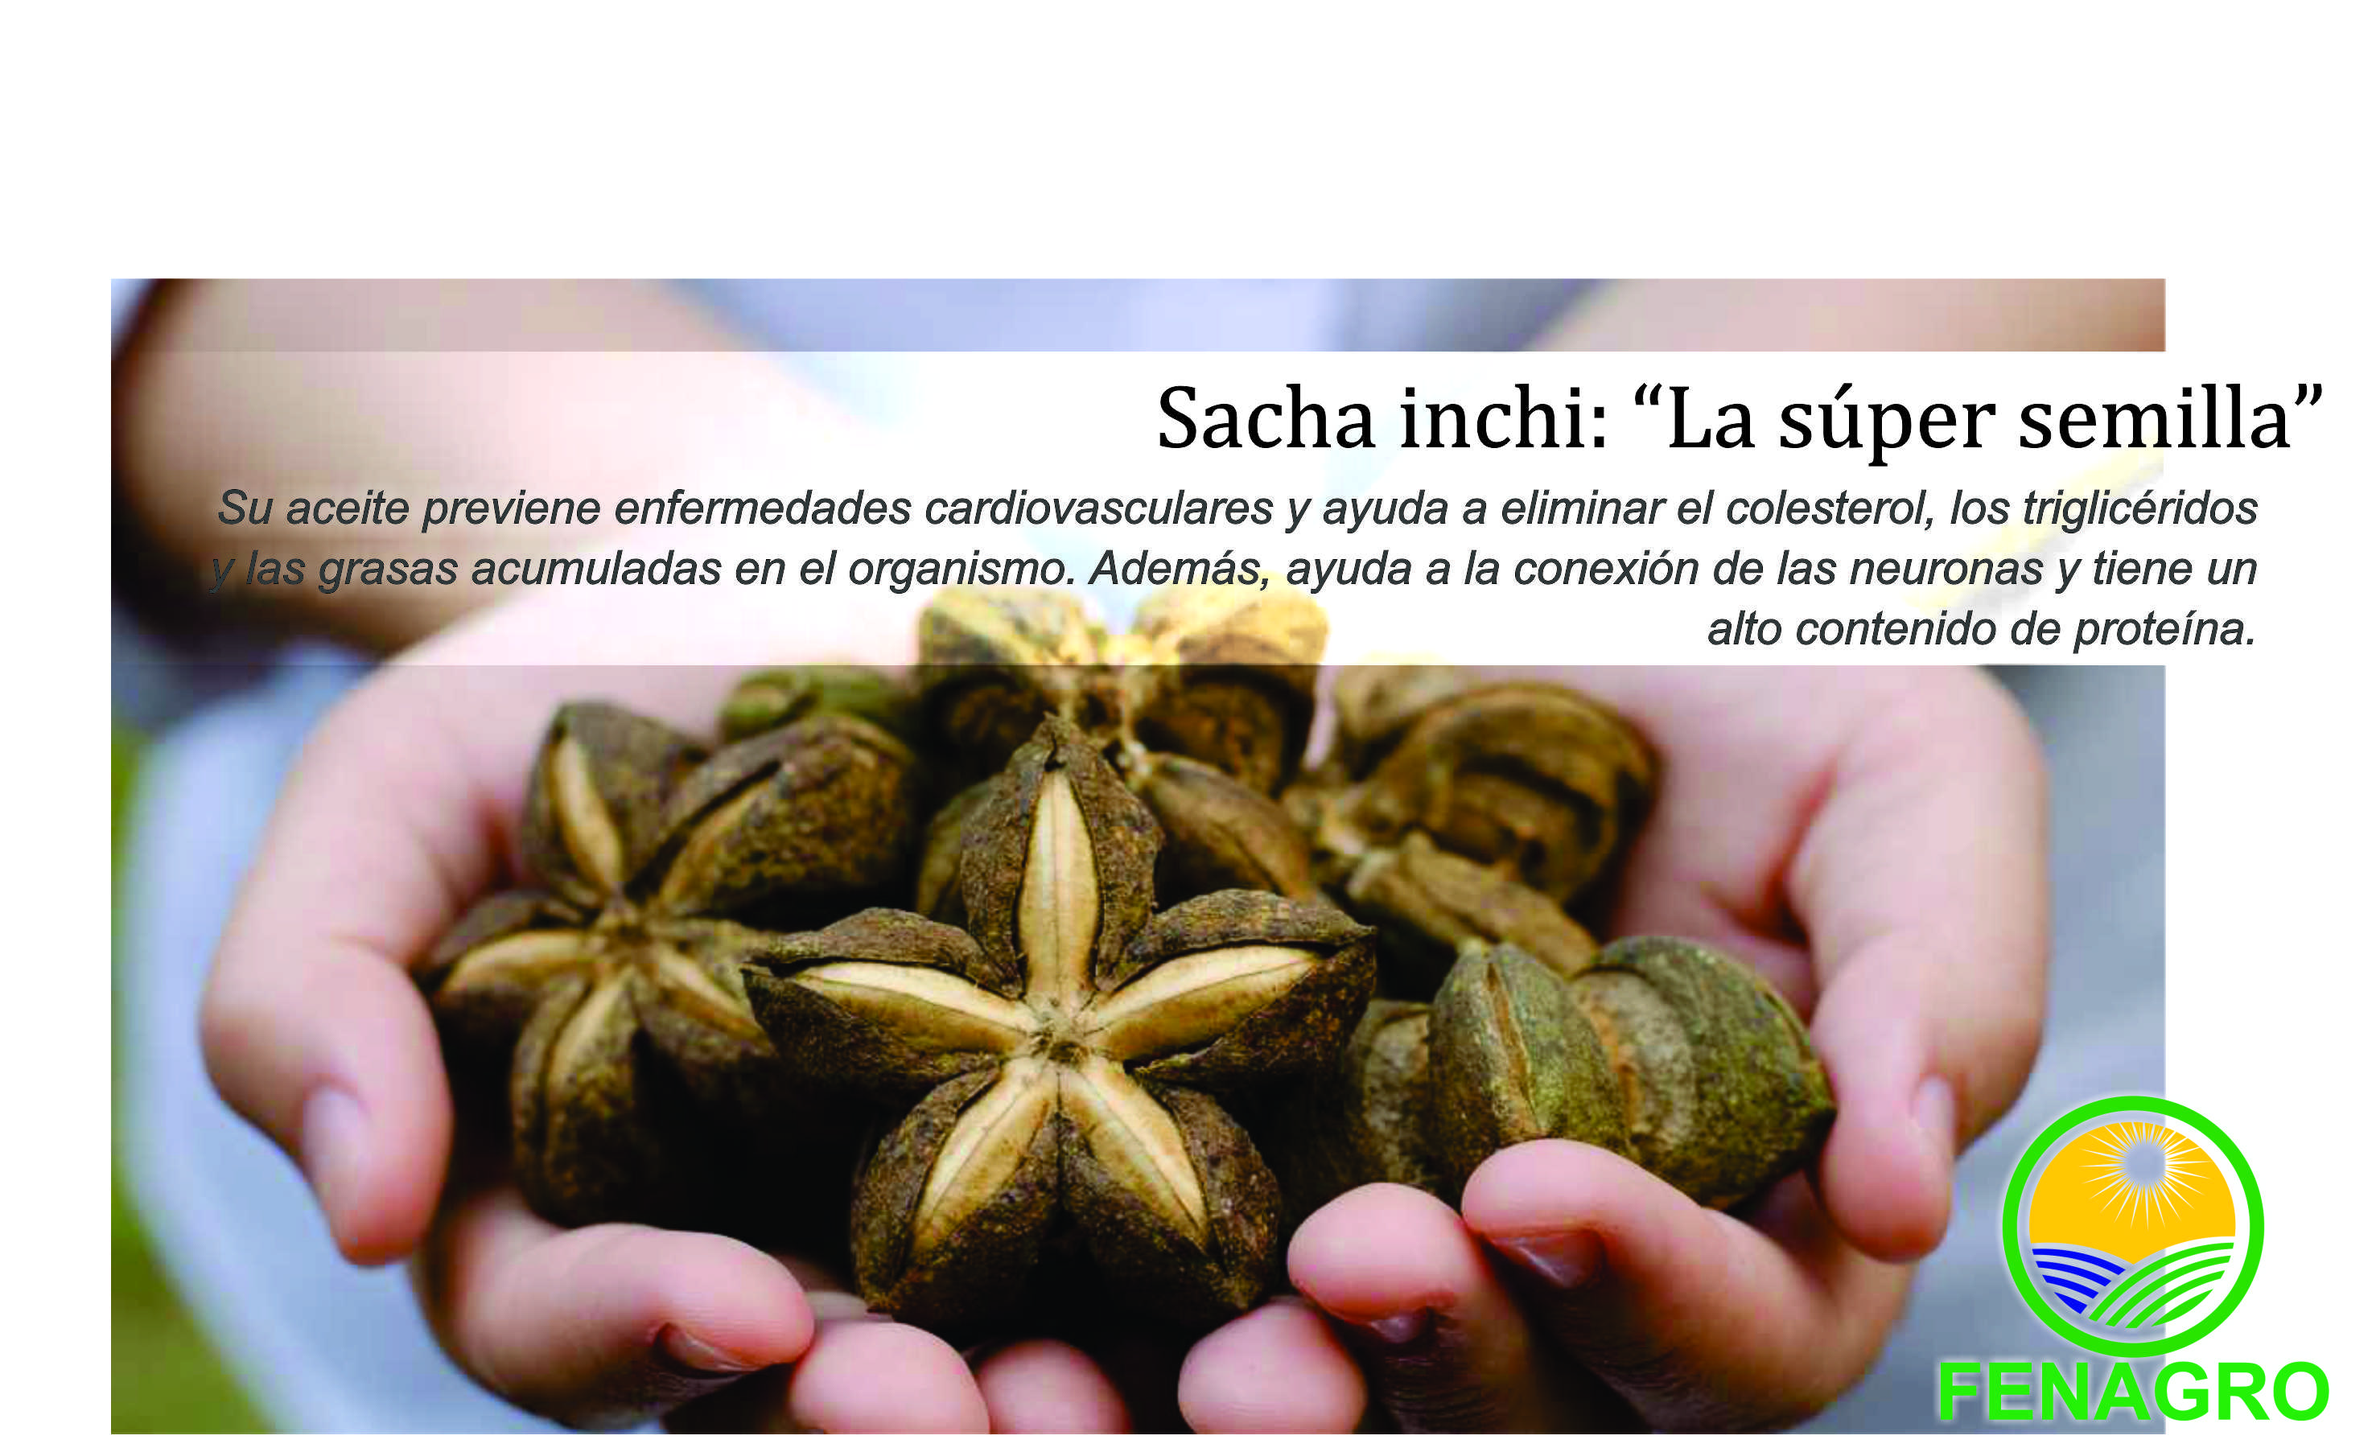
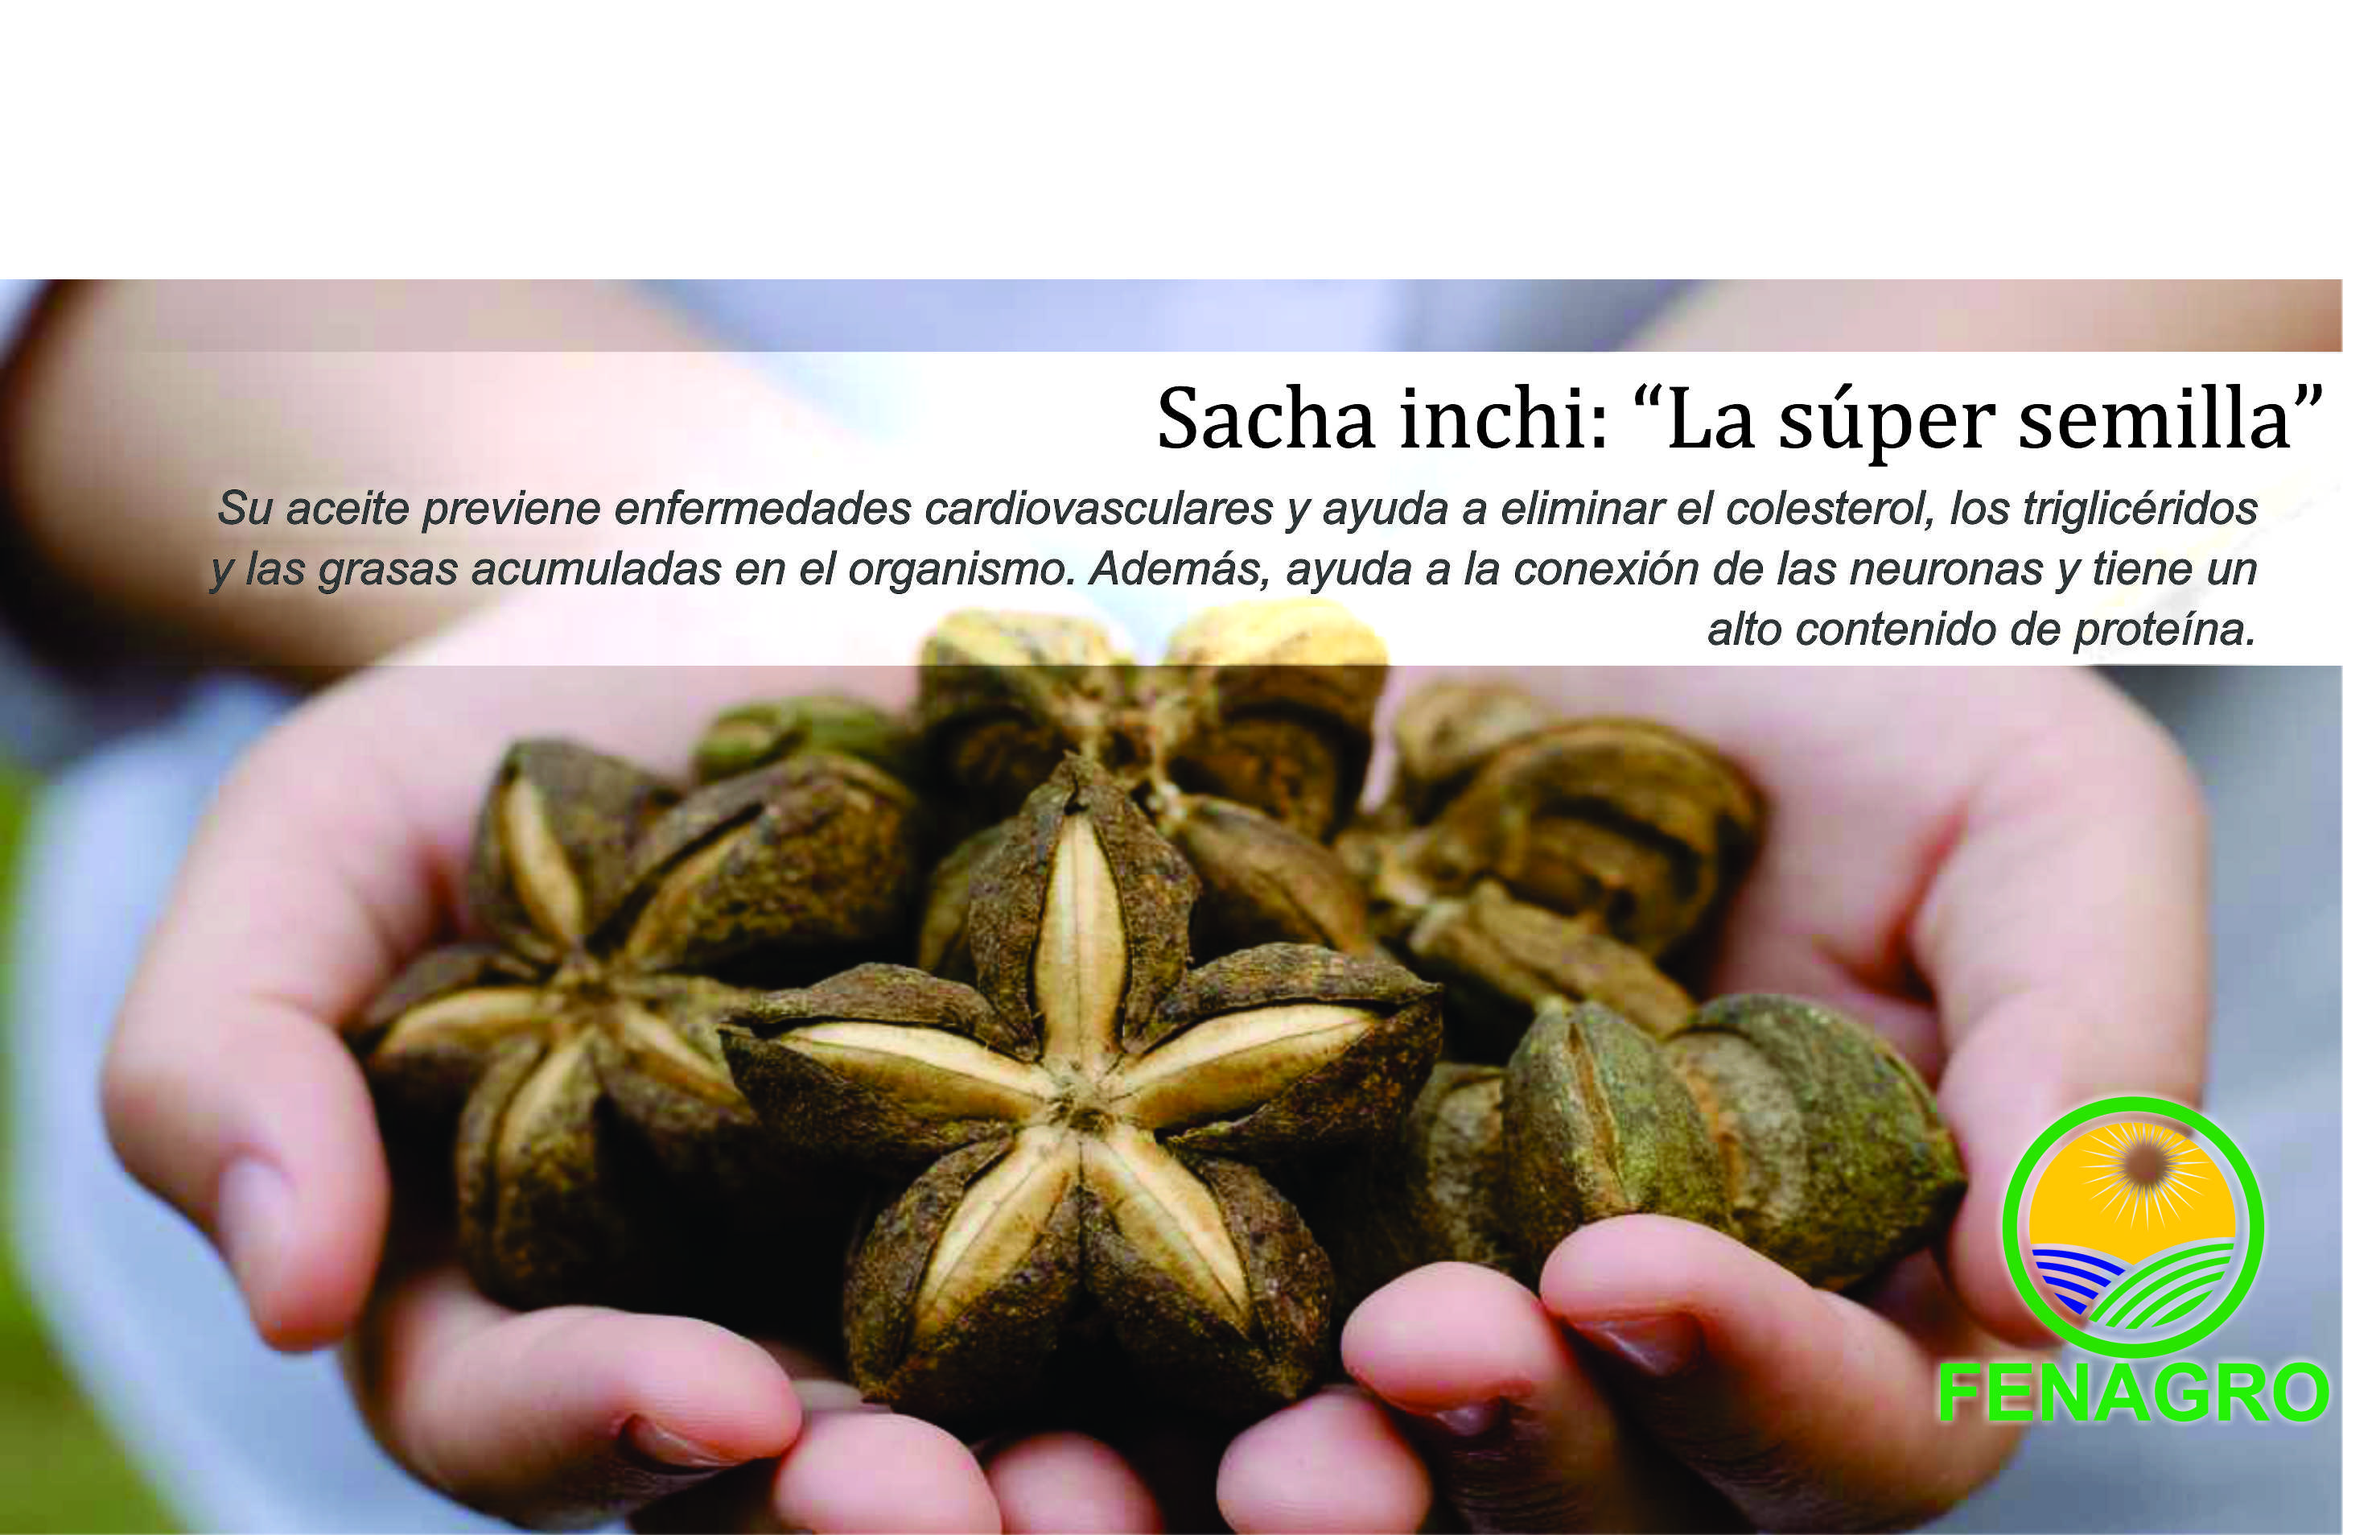
pagina inicial

diff --git a/src/components/Carousel/Carousel.jsx b/src/components/Carousel/Carousel.jsx
@@ -1,5 +1,5 @@
 import React from "react";
-import vegetales from "../../assets/imgs/vegetables.webp";
+import index_1 from "../../assets/imgs/index_1.jpg";
 import sacha_index from "../../assets/imgs/sacha_index.jpg";
 import cultivo from "../../assets/imgs/cultivo-tomates.webp";
 import tractor from "../../assets/imgs/tractor.webp";
@@ -25,15 +25,15 @@ const Carousel = () => {
         <div className="carousel-item active">
           <img
             className="d-block w-100 h-80"
-            src={vegetales}
+            src={index_1}
             alt="First slide"
           />
         </div>
         <div className="carousel-item">
           <img className="d-block w-100" src={sacha_index} alt="Second slide" />
           <div className="carousel-caption d-none d-md-block">
-            <h5>Verduras</h5>
-            <p>Del campo a tu casa</p>
+            <h5>Sacha Inchi</h5>
+            <p>Afiliate Ya!</p>
           </div>
         </div>
         <div className="carousel-item">
